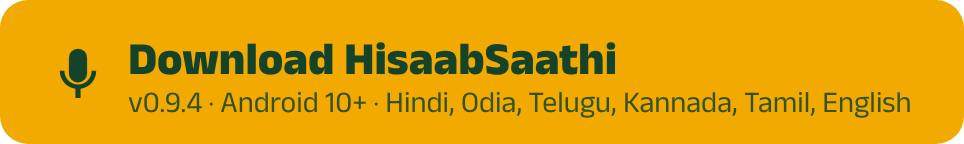
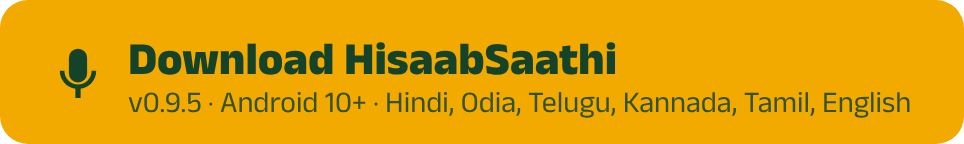
README: download button for 0.9.5

Changed region(s): [[0.1867, 0.6389, 0.9336, 0.8056]]

diff --git a/README.md b/README.md
@@ -3,7 +3,7 @@
 </p>
 
 <p align="center">
-  <a href="https://huggingface.co/AcxelinLabs/hisaabsaathi-model/resolve/main/HisaabSaathi.apk"><img src="docs/brand/download-app.png" alt="Download HisaabSaathi: v0.9.4, Android 10+" height="72"></a>
+  <a href="https://huggingface.co/AcxelinLabs/hisaabsaathi-model/resolve/main/HisaabSaathi.apk"><img src="docs/brand/download-app.png" alt="Download HisaabSaathi: v0.9.5, Android 10+" height="72"></a>
 </p>
 
 <p align="center">
